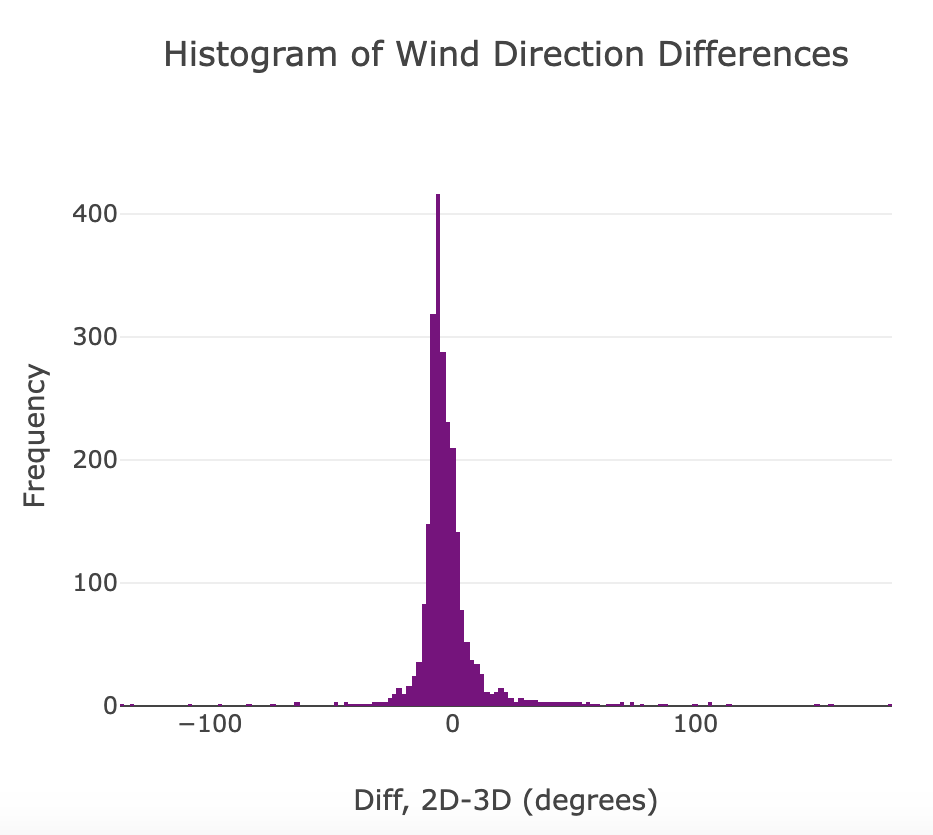
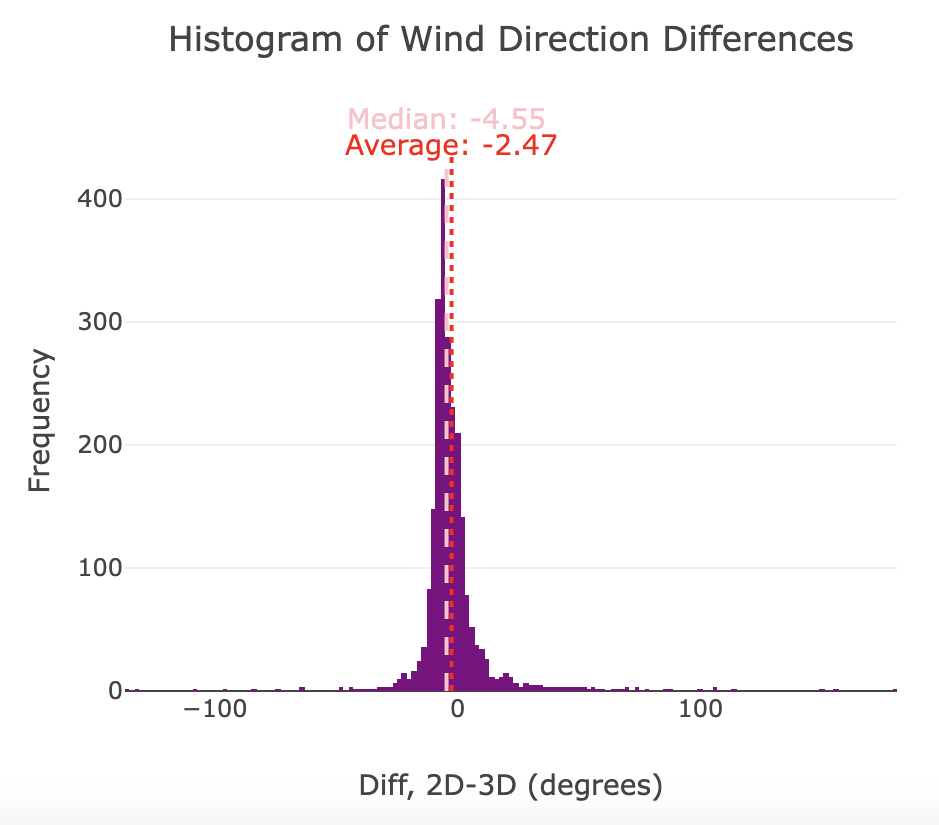
updated images

diff --git a/static/js/app.js b/static/js/app.js
@@ -122,6 +122,25 @@ function buildHistogram(option) {
             var plot_title = 'Histogram of Temperature Differences';
             var x_axis_label = 'Diff, 2D-3D (F)';
         }
+
+      // Calculate the average
+      let total = Diff.reduce((sum, value) => sum + value, 0);
+      let avg = total / Diff.length;
+
+      // Function to calculate the median
+      function calculateMedian(arr) {
+        let sorted = [...arr].sort((a, b) => a - b);
+        let middle = Math.floor(sorted.length / 2);
+
+        if (sorted.length % 2 === 0) {
+            // If even number of elements, take average of the two middle numbers
+            return (sorted[middle - 1] + sorted[middle]) / 2;
+        } else {
+            // If odd, return the middle element
+            return sorted[middle];
+        }
+      }
+      let median = calculateMedian(Diff);
         
       // Define the histogram trace
       let trace = {
@@ -137,6 +156,66 @@ function buildHistogram(option) {
           title: plot_title,  // Title of the plot
           xaxis: { title: x_axis_label },  // X-axis label
           yaxis: { title: 'Frequency' },  // Y-axis label (frequency count)
+          shapes: [
+            // Average line
+            {
+                type: 'line',
+                x0: avg, 
+                x1: avg,
+                y0: 0, 
+                y1: 1, 
+                xref: 'x', 
+                yref: 'paper', 
+                line: {
+                    color: 'red',
+                    width: 2,
+                    dash: 'dot'
+                }
+            },
+            // Median line
+            {
+                type: 'line',
+                x0: median, 
+                x1: median,
+                y0: 0, 
+                y1: 1, 
+                xref: 'x', 
+                yref: 'paper', 
+                line: {
+                    color: 'pink',
+                    width: 2,
+                    dash: 'dash' // Dash line for median
+                }
+            }
+          ],
+          annotations: [
+            // Average annotation
+            {
+                x: avg,
+                y: 1.05, 
+                xref: 'x',
+                yref: 'paper',
+                text: `Average: ${avg.toFixed(2)}`, 
+                showarrow: false,
+                font: {
+                    size: 14,
+                    color: 'red'
+                }
+            },
+            // Median annotation
+            {
+                x: median,
+                y: 1.10, 
+                xref: 'x',
+                yref: 'paper',
+                text: `Median: ${median.toFixed(2)}`, 
+                showarrow: false,
+                font: {
+                    size: 14,
+                    color: 'pink'
+                }
+            }
+          ]
       };
 
       // Plot the histogram
